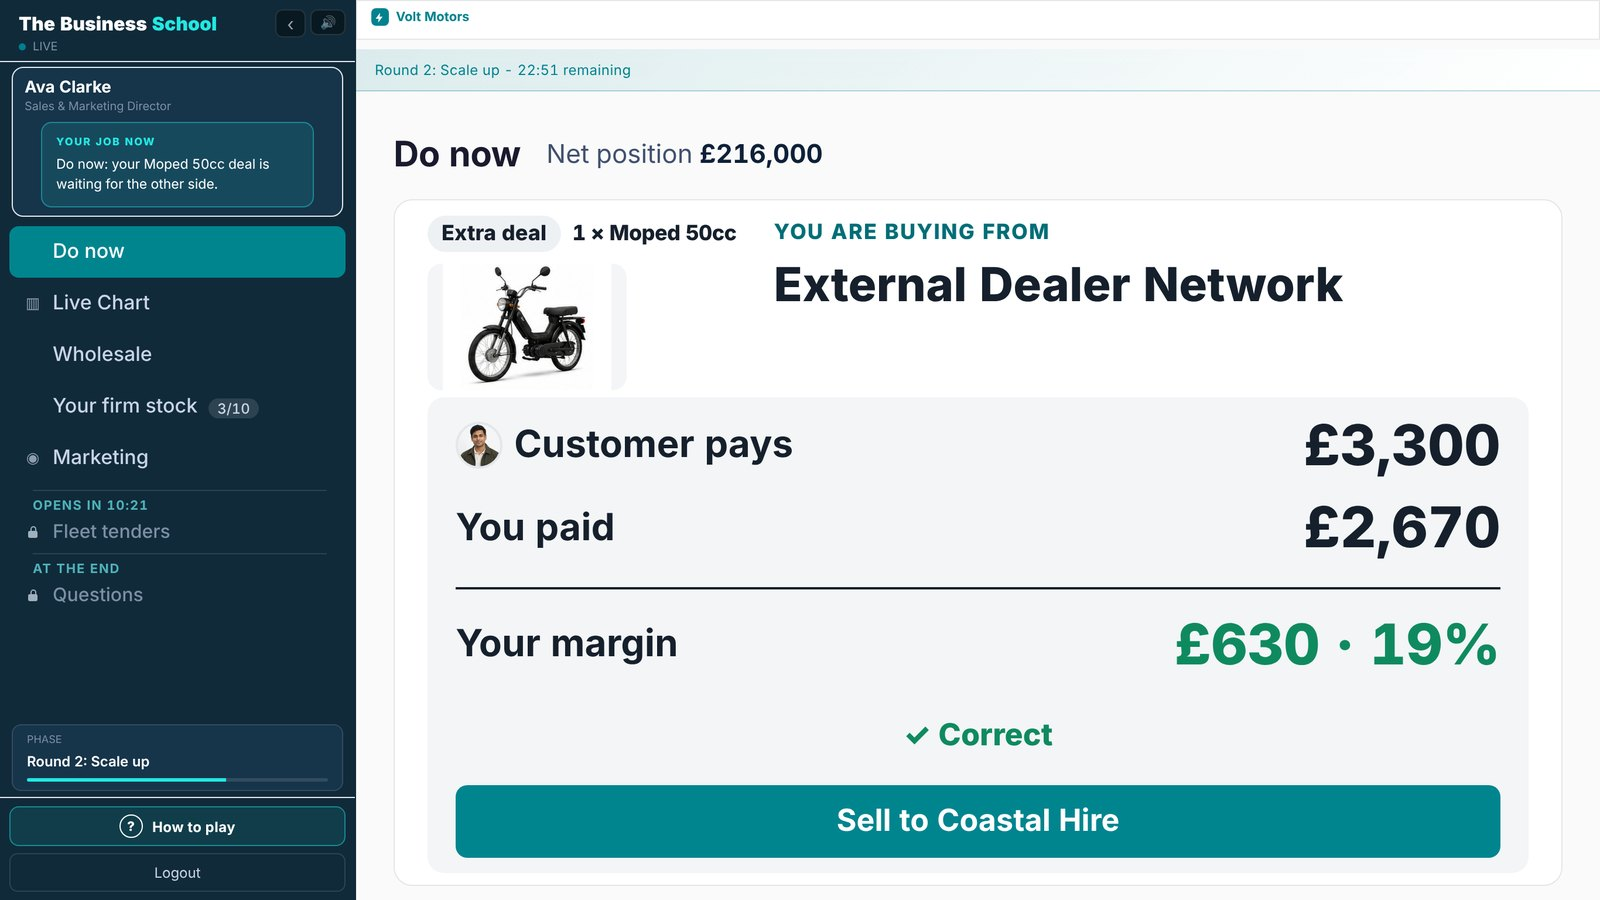
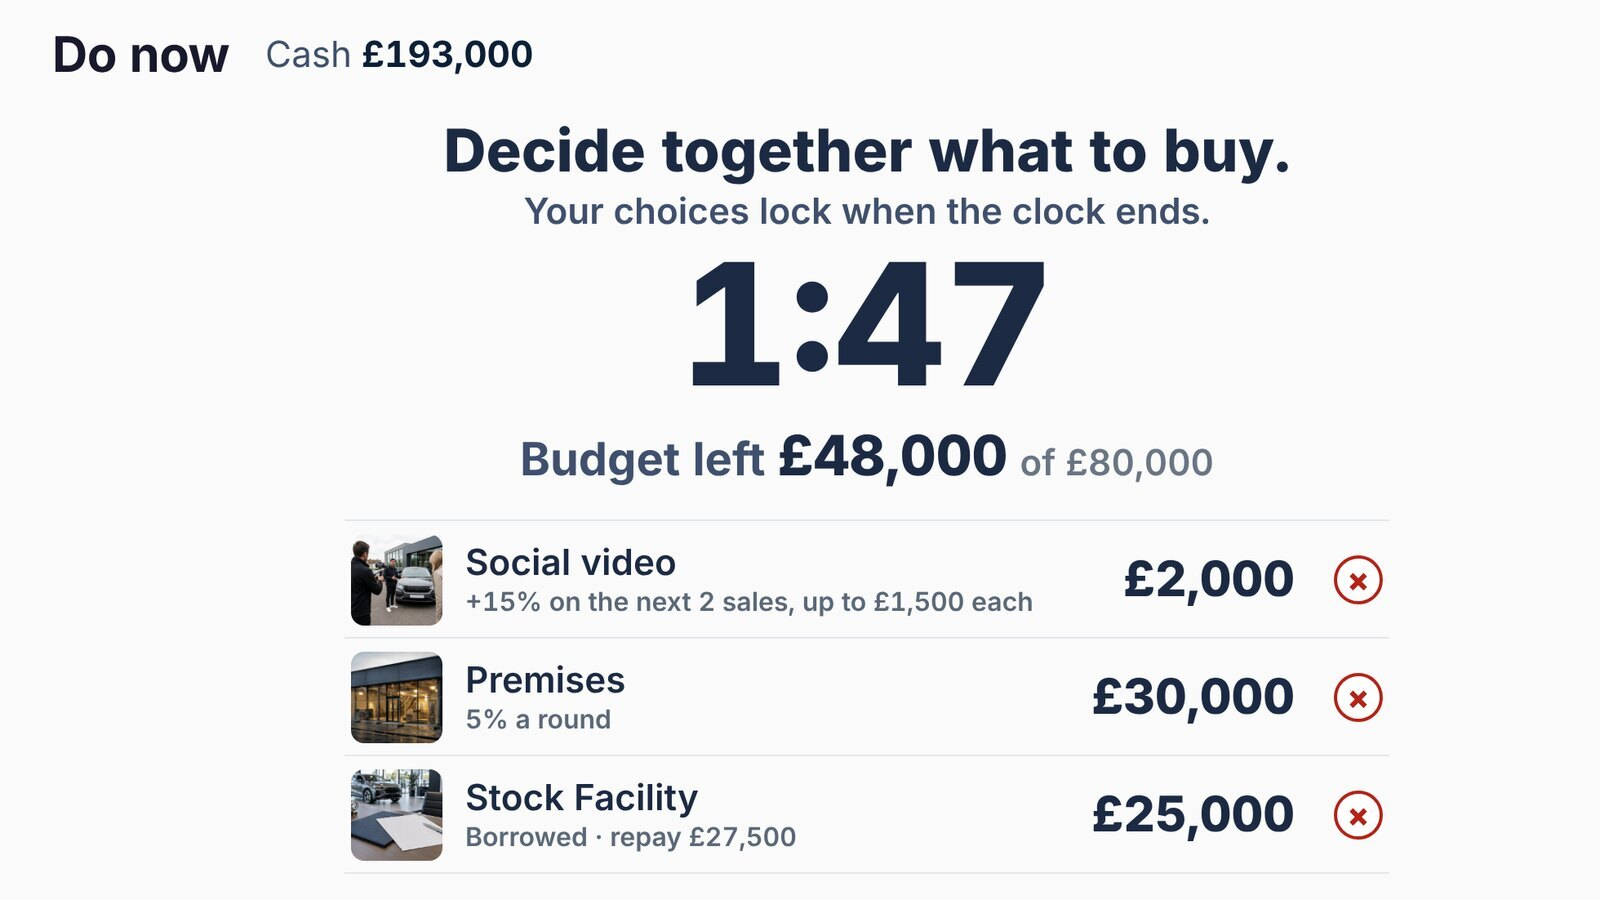
Front page (UK): three gallery/how-to pictures re-taken from the live scripted lesson (game main 34c19d3a)
The scripted lesson went live (play.thebusiness.school main 34c19d3a, Step-by-step
on for UK). The old pictures showed the Extra deal card and the fleet tender.

- uk/uk-g-extra.jpg: the decision step ("Decide together what to buy.", the clock,
  Budget left £48,000 of £80,000, the purchase list), 1600x900.
- uk/uk-g-fleet.jpg: a B2B card (3 x Quad bike, Buy from Ironside Machinery,
  Your customer pays / Their price / Your offer), 1600x900.
- howto/3b-margin.jpg: the classmate sell card (You are selling to Mia Richards,
  In stock 1 of 1, Your price), 1100x619.

Taken from the game's own script-mode views (scripts/motor-tutorial-slides.js
--mode raw, real index.html/app.js over a synthetic class; the shipped files are
byte-identical to the live site's) at 1366x768, scale 2; JPEG q86 progressive as
before. Fresh ?v=20261108live; alt text says what each picture now shows.
UK page only.

Claude-Session: https://claude.ai/code/session_01Np2n7mwxyzcaQWByNZ1ReD

diff --git a/index.html b/index.html
@@ -655,11 +655,11 @@
         <figcaption>Each firm gets a deal task. The firm works out the numbers together.</figcaption>
       </figure>
       <figure class="motor-gal-item">
-        <img src="/assets/tbs-web/uk/uk-g-extra.jpg?v=20261028d" width="1600" height="900" loading="lazy" decoding="async" alt="Firm decisions: each role on its own page at the start of a round" />
+        <img src="/assets/tbs-web/uk/uk-g-extra.jpg?v=20261108live" width="1600" height="900" loading="lazy" decoding="async" alt="Firm decisions: the firm decides together what to buy, with the clock and the budget left" />
         <figcaption>Each round opens with firm decisions, one page per role.</figcaption>
       </figure>
       <figure class="motor-gal-item">
-        <img src="/assets/tbs-web/uk/uk-g-fleet.jpg?v=20261028d" width="1600" height="900" loading="lazy" decoding="async" alt="A B2B deal: one firm offers a lot of cars to another firm" />
+        <img src="/assets/tbs-web/uk/uk-g-fleet.jpg?v=20261108live" width="1600" height="900" loading="lazy" decoding="async" alt="A B2B deal: a firm makes an offer for 3 quad bikes from another firm" />
         <figcaption>A B2B deal: one firm sells a lot of cars to another.</figcaption>
       </figure>
       <figure class="motor-gal-item">
@@ -781,7 +781,7 @@
       <h2 style="font-family:'Fraunces',Georgia,serif;font-weight:600;color:#0e2038;font-size:clamp(26px,3.2vw,37px);margin:12px 0;line-height:1.15;letter-spacing:-.01em">How a lesson runs</h2>
       <p style="color:#40506e;font-size:16.5px">A revision lesson at the end of each topic, or a business activity any time (No topic).</p>
     </div>
-    <div class="hs-wrap"><div class="hs"><div class="hs-list" role="tablist" aria-label="How a lesson runs"><button class="hs-item" type="button" role="tab" aria-selected="true" data-i="0"><span class="hs-n">01</span><span><span class="hs-t">Students join with a PIN</span><span class="hs-d">You pick the class and the lesson length. The whole class joins with one PIN.</span></span></button><button class="hs-item" type="button" role="tab" aria-selected="false" data-i="1"><span class="hs-n">02</span><span><span class="hs-t">Each firm votes where to open</span><span class="hs-d">Everyone votes. Most votes wins.</span></span></button><button class="hs-item" type="button" role="tab" aria-selected="false" data-i="2"><span class="hs-n">03</span><span><span class="hs-t">Everyone has a role and a job</span><span class="hs-d">Students buy, price and negotiate face to face.</span></span></button><button class="hs-item" type="button" role="tab" aria-selected="false" data-i="3"><span class="hs-n">04</span><span><span class="hs-t">Every round, the same order</span><span class="hs-d">Firm decisions, deals with classmates, topic tasks, then a B2B deal between firms.</span></span></button><button class="hs-item" type="button" role="tab" aria-selected="false" data-i="4"><span class="hs-n">05</span><span><span class="hs-t">You see every firm live</span><span class="hs-d">Pause and Stop are one click away.</span></span></button><button class="hs-item" type="button" role="tab" aria-selected="false" data-i="5"><span class="hs-n">06</span><span><span class="hs-t">Questions, then the winner</span><span class="hs-d">Six questions for your class, then the podium.</span></span></button><button class="hs-item" type="button" role="tab" aria-selected="false" data-i="6"><span class="hs-n">07</span><span><span class="hs-t">Every student gets a report</span><span class="hs-d">You download the class pack.</span></span></button></div><div class="hs-view"><div class="hs-frame"><i class="hs-corner tl"></i><i class="hs-corner tr"></i><i class="hs-corner bl"></i><i class="hs-corner br"></i><div class="hs-stack"><img class="hs-img on" src="/assets/tbs-web/howto/1-join.jpg?v=20261104live" alt="Students join with a PIN" width="1100" height="619"><img class="hs-img" src="/assets/tbs-web/howto/2-location.jpg?v=20261104live" alt="Each firm votes where to open" loading="lazy" width="1100" height="619"><img class="hs-img" src="/assets/tbs-web/howto/3-deal.jpg?v=20261028d" alt="Everyone has a role and a job" loading="lazy" width="1100" height="619"><img class="hs-img" src="/assets/tbs-web/howto/3b-margin.jpg?v=20261028d" alt="Every round, the same order" loading="lazy" width="1100" height="619"><img class="hs-img" src="/assets/tbs-web/howto/4-teacher.jpg?v=20261028d" alt="You see every firm live" loading="lazy" width="1100" height="619"><img class="hs-img" src="/assets/tbs-web/howto/5-winner.jpg?v=20261028d" alt="Questions, then the winner" loading="lazy" width="1100" height="619"><img class="hs-img" src="/assets/tbs-web/howto/6-report.jpg?v=20261028d" alt="Every student gets a report" loading="lazy" width="1100" height="619"></div><div class="hs-bar"><i></i></div></div><p class="hs-cap" aria-live="polite"></p></div></div></div>
+    <div class="hs-wrap"><div class="hs"><div class="hs-list" role="tablist" aria-label="How a lesson runs"><button class="hs-item" type="button" role="tab" aria-selected="true" data-i="0"><span class="hs-n">01</span><span><span class="hs-t">Students join with a PIN</span><span class="hs-d">You pick the class and the lesson length. The whole class joins with one PIN.</span></span></button><button class="hs-item" type="button" role="tab" aria-selected="false" data-i="1"><span class="hs-n">02</span><span><span class="hs-t">Each firm votes where to open</span><span class="hs-d">Everyone votes. Most votes wins.</span></span></button><button class="hs-item" type="button" role="tab" aria-selected="false" data-i="2"><span class="hs-n">03</span><span><span class="hs-t">Everyone has a role and a job</span><span class="hs-d">Students buy, price and negotiate face to face.</span></span></button><button class="hs-item" type="button" role="tab" aria-selected="false" data-i="3"><span class="hs-n">04</span><span><span class="hs-t">Every round, the same order</span><span class="hs-d">Firm decisions, deals with classmates, topic tasks, then a B2B deal between firms.</span></span></button><button class="hs-item" type="button" role="tab" aria-selected="false" data-i="4"><span class="hs-n">05</span><span><span class="hs-t">You see every firm live</span><span class="hs-d">Pause and Stop are one click away.</span></span></button><button class="hs-item" type="button" role="tab" aria-selected="false" data-i="5"><span class="hs-n">06</span><span><span class="hs-t">Questions, then the winner</span><span class="hs-d">Six questions for your class, then the podium.</span></span></button><button class="hs-item" type="button" role="tab" aria-selected="false" data-i="6"><span class="hs-n">07</span><span><span class="hs-t">Every student gets a report</span><span class="hs-d">You download the class pack.</span></span></button></div><div class="hs-view"><div class="hs-frame"><i class="hs-corner tl"></i><i class="hs-corner tr"></i><i class="hs-corner bl"></i><i class="hs-corner br"></i><div class="hs-stack"><img class="hs-img on" src="/assets/tbs-web/howto/1-join.jpg?v=20261104live" alt="Students join with a PIN" width="1100" height="619"><img class="hs-img" src="/assets/tbs-web/howto/2-location.jpg?v=20261104live" alt="Each firm votes where to open" loading="lazy" width="1100" height="619"><img class="hs-img" src="/assets/tbs-web/howto/3-deal.jpg?v=20261028d" alt="Everyone has a role and a job" loading="lazy" width="1100" height="619"><img class="hs-img" src="/assets/tbs-web/howto/3b-margin.jpg?v=20261108live" alt="Every round, the same order" loading="lazy" width="1100" height="619"><img class="hs-img" src="/assets/tbs-web/howto/4-teacher.jpg?v=20261028d" alt="You see every firm live" loading="lazy" width="1100" height="619"><img class="hs-img" src="/assets/tbs-web/howto/5-winner.jpg?v=20261028d" alt="Questions, then the winner" loading="lazy" width="1100" height="619"><img class="hs-img" src="/assets/tbs-web/howto/6-report.jpg?v=20261028d" alt="Every student gets a report" loading="lazy" width="1100" height="619"></div><div class="hs-bar"><i></i></div></div><p class="hs-cap" aria-live="polite"></p></div></div></div>
     <div style="display:flex;gap:14px;justify-content:center;flex-wrap:wrap;margin-top:8px">
       <a href="/trial/" style="display:inline-block;background:#0a6b73;color:#fff;font-weight:700;border-radius:12px;padding:19px 38px;text-decoration:none;font-size:20px;box-shadow:0 8px 24px rgba(10,107,115,.35)">Request a trial</a>
       <a href="https://play.thebusiness.school/demo/group-classroom/" style="display:inline-block;background:#fff;color:#0e2038;border:1px solid #c9d3df;font-weight:700;border-radius:12px;padding:19px 30px;text-decoration:none;font-size:18px">Try the Teacher Demo</a>
